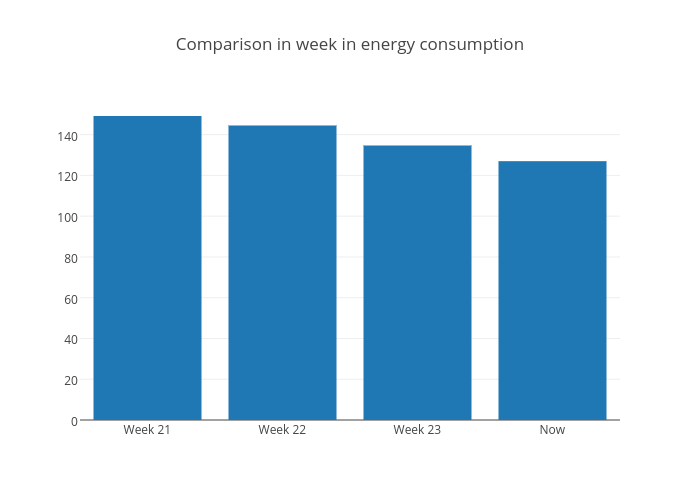
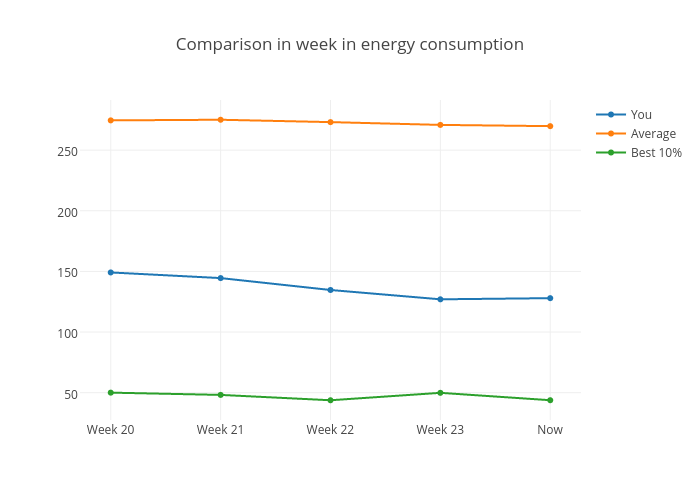
Commit 7
Added all the Graphs

diff --git a/Main.py b/Main.py
@@ -2,7 +2,7 @@ import csv
 import plotly
 from plotly import __version__
 from plotly.offline import download_plotlyjs, init_notebook_mode, plot, iplot
-from plotly.graph_objs import *
+from plotly.graph_objs import * #Scatter, Bar, Figure, Layout
 import plotly.graph_objs as go
 import plotly.plotly as py
 
@@ -127,7 +127,7 @@ for user in users:
         print("average consumption from " + str(i*4) + " to " + str(i*4+4) + " : " + str(user.consumptionOnOneDay[i]))
 
 timeOfTheDay = ['0 to 4', '4 to 8', '8 to 12', '12 to 16', '16 to 20', '20 to 24']
-weekNames = ['Week 21', 'Week 22', 'Week 23', 'Now']
+weekNames = ['Week 20', 'Week 21', 'Week 22', 'Week 23', 'Now']
 
 for user in users:
     for userInAll in allUsers:
@@ -135,8 +135,24 @@ for user in users:
             for i in range(0, len(userInAll.week)):
                 user.weekConsumption.append(userInAll.week[i])
 
-for user in users:
+averageConsumptionPerWeek = []
+bestConsumptionPerWeek = []
 
+for week in range(0, 5):
+    sumPerWeek = 0
+    bestPerWeek = 0
+    weekConsumptions = []
+    for user in allUsers:
+        sumPerWeek += user.week[week]
+        if user.week[week]>0:
+            weekConsumptions.append(user.week[week])
+    averageConsumptionPerWeek.append(sumPerWeek/len(allUsers))
+    weekConsumptions = sorted(weekConsumptions)
+    for i in range(0, 10):
+        bestPerWeek += weekConsumptions[i]
+    bestConsumptionPerWeek.append(bestPerWeek/10)
+
+for user in users:
     trace = Bar(x=[timeOfTheDay[0], timeOfTheDay[1], timeOfTheDay[2], timeOfTheDay[3], timeOfTheDay[4],
                    timeOfTheDay[5]], y=[user.consumptionOnOneDay[0], user.consumptionOnOneDay[1],
                                         user.consumptionOnOneDay[2], user.consumptionOnOneDay[3],
@@ -147,9 +163,28 @@ for user in users:
 
     py.image.save_as(fig, user.firstName + ' ' + user.lastName + ' average in a day.png')
 
-    trace = Bar(x=[weekNames[0], weekNames[1], weekNames[2], weekNames[3]], y=[user.weekConsumption[0], user.weekConsumption[1],
-                                        user.weekConsumption[2], user.weekConsumption[3]])
-    data = [trace]
+    userGraph = go.Scatter(
+        x=weekNames,
+        y=user.weekConsumption,
+        mode='lines+markers',
+        name='You'
+    )
+
+    averageGraph = go.Scatter(
+        x=weekNames,
+        y=averageConsumptionPerWeek,
+        mode='lines+markers',
+        name='Average'
+    )
+
+    bestGraph = go.Scatter(
+        x=weekNames,
+        y=bestConsumptionPerWeek,
+        mode='lines+markers',
+        name='Best 10%'
+    )
+
+    data = [userGraph, averageGraph, bestGraph]
     layout = Layout(title='Comparison in week in energy consumption')
     fig = Figure(data=data, layout=layout)
 
